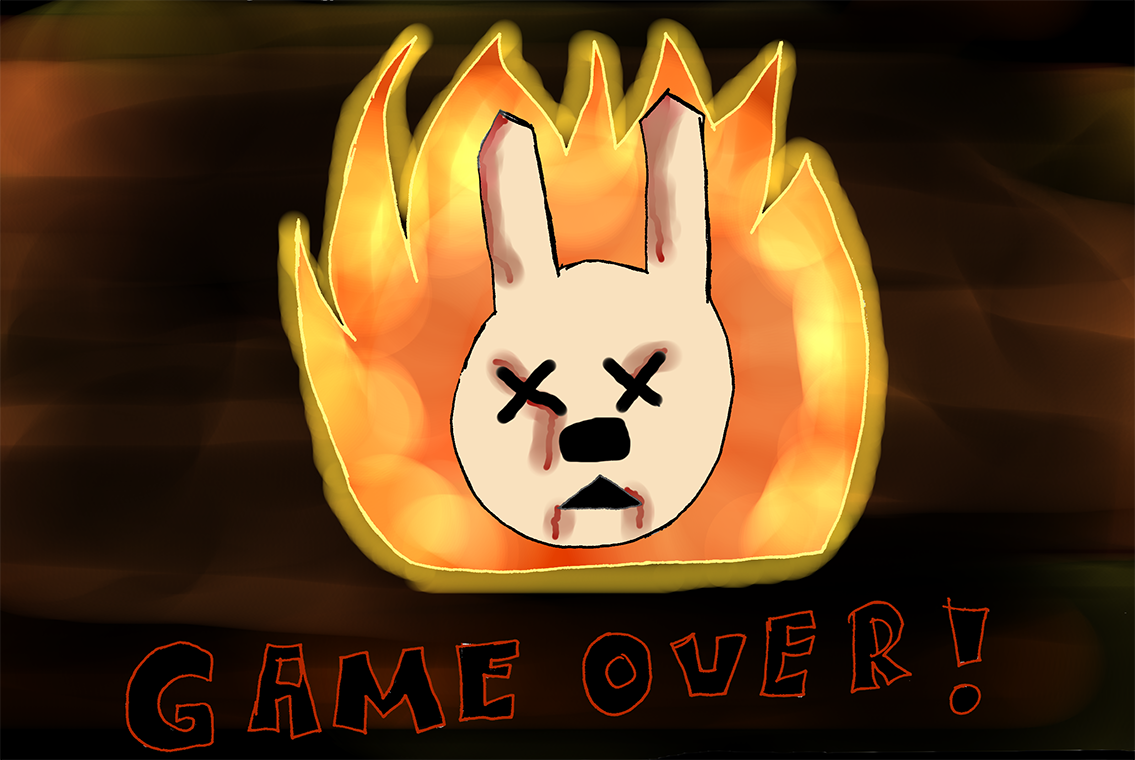
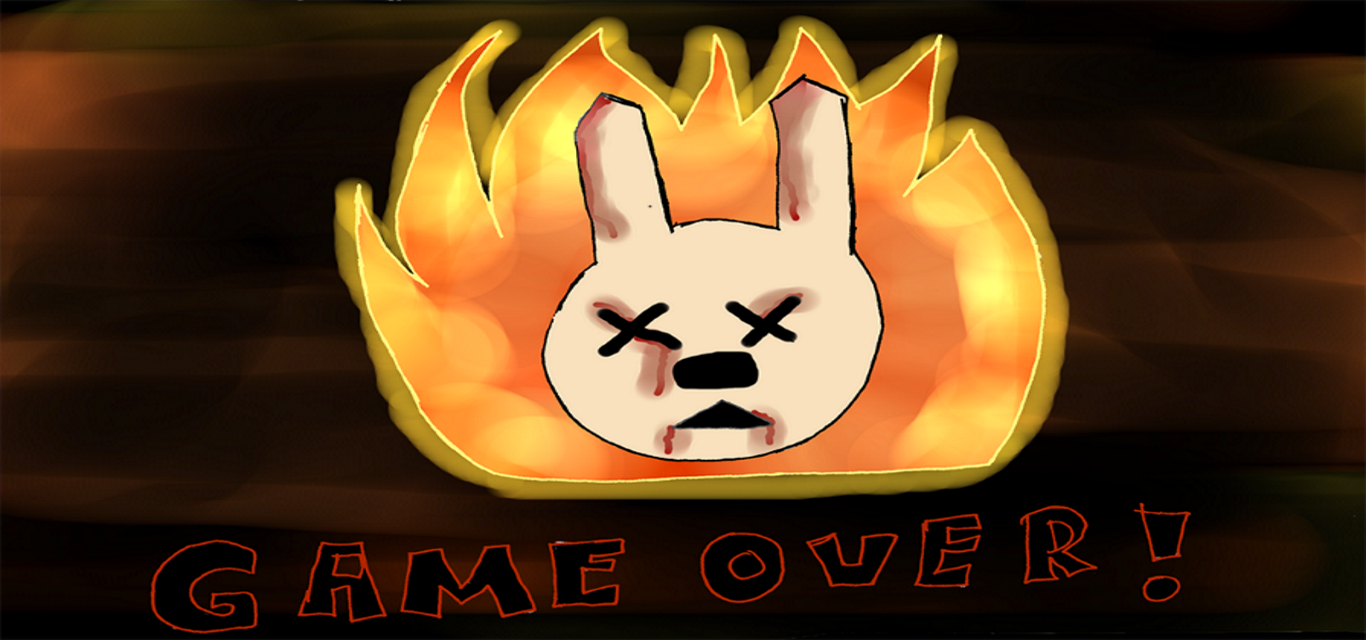
why kvaltitet

diff --git a/Js/config1.js b/Js/config1.js
@@ -1,5 +1,12 @@
 
 function enterLvl1() {
+
+    var backgroungimg = new Image();
+    backgroungimg.src = "./img/bakgrunn1.png";
+    backgroungimg.style.width = canvasEl.width;
+    backgroungimg.style.height = canvasEl.height;
+    
+    console.log(canvasEl.width, canvasEl.height);
     //Setting the inventory of the player to 0
     var playerGameInventoryDiamondCount = 0;
     var playerGameInventoryCarrotCount = 0;
@@ -42,7 +49,7 @@ function enterLvl1() {
     var playerHp = 3;
     var playerDamage = 5;
 
-    //
+    //<
 
     //Making the player
     var player = new entity("img/Small1.png", playerXPosition, playerYPosition, playerWidth, playerHeight, playerYspd, playerGravity, playerWeight, playerHp, playerDamage, playerName)
@@ -116,10 +123,12 @@ function enterLvl1() {
 
     //And the enemies, with a more complex system
     var EnemySet = [
-        { antallEnemies: 0, xPos: 50, yPos: 30, yspd: 0.5, xspd: 0.5, width: 10, height: 12, gravity: 5, weight: 0.1, currentHp: 5, damage: 0, range: 100 },
-        { antallEnemies: 0, xPos: 200, yPos: 20, yspd: 0.5, xspd: 0.5, width: 10, height: 12, gravity: 5, weight: 0.1, currentHp: 5, damage: 0, range: 200 },
-        { antallEnemies: 2, xPos: 490, yPos: 15, yspd: 0.5, xspd: 0.5, width: 10, height: 12, gravity: 5, weight: 0.1, currentHp: 5, damage: 0, range: 10 },
+        { antallEnemies: 2, xPos: 300, yPos: 30, yspd: 0.5, xspd: 0.5, width: 10, height: 12, gravity: 5, weight: 0.1, currentHp: 5, damage: 0, range: 100, name: "zombie" },
+        { antallEnemies: 0, xPos: 200, yPos: 20, yspd: 0.5, xspd: 0.5, width: 10, height: 12, gravity: 5, weight: 0.1, currentHp: 5, damage: 0, range: 200, name: "normal" },
+        { antallEnemies: 2, xPos: 490, yPos: 15, yspd: 0.5, xspd: 0.5, width: 10, height: 12, gravity: 5, weight: 0.1, currentHp: 5, damage: 0, range: 10, name: "normal" },
     ]
+
+    var differanse = new Array();
 
     //Enemy arrays
     var enemies = new Array();
@@ -133,6 +142,7 @@ function enterLvl1() {
         enemies[i] = new Array();
         enemyStartXValue[i] = new Array();
         startSpeed[i] = new Array();
+        differanse[i] = new Array();
 
         for (var j = 0; j < EnemySet[i].antallEnemies; j++) {
             startSpeed[i][j] = false;
@@ -152,6 +162,7 @@ function enterLvl1() {
 
             //Lastly we give the enemies their start value 
             enemies[i][j].startXposition = enemyStartXValue[i][j];
+
 
         }
 
@@ -191,6 +202,8 @@ function enterLvl1() {
 
     mainLoop();
     function mainLoop() {
+
+
 
         var gravity = 0.09;
         // Stats update
@@ -383,30 +396,52 @@ function enterLvl1() {
         }
 
 
-
+        var check = true;
         //Keepin track of the enemies
         for (var i = 0; i < enemies.length; i++) {
 
             for (j = 0; j < enemies[i].length; j++) {
+                console.log(differanse[0][0]);
+                differanse[i][j] = player.xPosition - enemies[i][j].xPosition;
 
-                if (startSpeed[i][j] == false) {
-                    enemies[i][j].xPosition += -player.xSpd + EnemySet[i].xspd;
-                    enemies[i][j].yPosition += EnemySet[i].yspd;
-                    enemies[i][j].startXposition += -EnemySet[i].xspd;
+                if (check || enemies[i][j].name === "normal") {
+
+                    if (startSpeed[i][j] == false) {
+                        enemies[i][j].xPosition += -player.xSpd + EnemySet[i].xspd;
+                        enemies[i][j].yPosition += EnemySet[i].yspd;
+                        enemies[i][j].startXposition += -EnemySet[i].xspd;
+                    }
+
+                    if (startSpeed[i][j] == true) {
+                        enemies[i][j].xPosition += -player.xSpd - EnemySet[i].xspd;
+                        enemies[i][j].yPosition += EnemySet[i].yspd;
+                        enemies[i][j].startXposition += EnemySet[i].xspd;
+                    }
+
+                    if (enemies[i][j].startXposition === enemies[i][j].scopeRight) {
+                        startSpeed[i][j] = false;
+                    } else if (enemies[i][j].startXposition === enemies[i][j].scopeLeft) {
+                        startSpeed[i][j] = true;
+                    }
+
+
+
+                }
+                else {
+                    enemies[i][j].xPosition += EnemySet.xSpd;
                 }
 
-                if (startSpeed[i][j] == true) {
-                    enemies[i][j].xPosition += -player.xSpd - EnemySet[i].xspd;
-                    enemies[i][j].yPosition += EnemySet[i].yspd;
-                    enemies[i][j].startXposition += EnemySet[i].xspd;
+                if (enemies[i][j].name = "zombie") {
+                    if (Math.abs(differanse) < 00) {
+                        check = false;
+                        if (differanse > 0) {
+                            EnemySet[i].xSpd = 0.8;
+                        }
+                    }
+                    else if (differanse < 0) {
+                        EnemySet[i].xSpd = -0.8;
+                    }
                 }
-
-                if (enemies[i][j].startXposition === enemies[i][j].scopeRight) {
-                    startSpeed[i][j] = false;
-                } else if (enemies[i][j].startXposition === enemies[i][j].scopeLeft) {
-                    startSpeed[i][j] = true;
-                }
-
 
 
                 for (var k = 0; k < block.length; k++) {
@@ -445,6 +480,28 @@ function enterLvl1() {
 
                 }
 
+                for (var d = 0; d < bulletList.length; d++) {
+                    if (enemies[i][j].collitionObject(bulletList[d])) {
+                        var remmovebullet = bulletList.indexOf(bulletList[d]);
+                        if (remmovebullet > -1) {
+                            bulletList.splice(remmovebullet, 1);
+
+                        }
+
+                        var removeenemy = enemies[i].indexOf(enemies[i][j]);
+                        if (removeenemy > -1) {
+                            enemies[i].splice(removeenemy, 1);
+
+                        }
+
+
+
+
+
+                        console.log("du har tatt vekk et liv, hvorfor?")
+                    }
+                }
+
             }
         }
 
@@ -454,6 +511,9 @@ function enterLvl1() {
 
         //Clearing the screen
         ctx.clearRect(0, 0, canvasEl.width, canvasEl.height);
+
+        //backgroundimage
+        ctx.drawImage(backgroungimg, 0, 0, backgroungimg.style.width, backgroungimg.style.height);
 
         //rendering the bullets
         for (var i = 0; i < bulletList.length; i++) {

diff --git a/Js/gameClasses.js b/Js/gameClasses.js
@@ -40,10 +40,50 @@ class entity {
             }
             return true;
         }
+/*
+        this.kollisjon2 = function (obj) {
+            //lager to vektorer , plusser ob1.width og height, og med ob2.width og heigt får å måe vektoren fra sentrum
+
+            var vx = ((this.xPosition + (this.width / 2) - (obj.xPosition + (obj.width / 2))));
+            var vy = ((this.yPosition + (this.height / 2) - (obj.yPosition + (obj.height / 2))));
+            //halv bredde og høyde vil bli midtpunkten i hver objekt
+            var halfwidth = ((this.width + obj.width) / 2);
+            var halfheight = (this.height / 2) + (obj.height / 2);
+            var kollisjonpo = null;
+            var ox = halfwidth - Math.abs(vx);
+            var oy = halfheight - Math.abs(vy);
+
+
+            //hvis lengden av vektorene(altså lengden mellom objektenes sentrum) er mindre enn summen av halwidth og halfheight i begge objektene så kolliderer de
+            if (Math.abs(vx) < halfwidth && Math.abs(vy) < halfheight) {
+                if (ox >= oy) {
+                    if (vy > 0) {
+                        kollisjonpo = "topp";
+                        obj.yPosition += oy;
+                    } else {
+                        kollisjonpo = "bunn";
+                        obj.yPosition -= oy;
+                    }
+                    if (vx > 0) {
+                        kollisjonpo = "venstre";
+                        obj.yPosition += ox;
+                    } else {
+                        kollisjonpo = "hoyre";
+                        obj.yPosition -= ox;
+
+                    }
+
+
+                }
+                return kollisjonpo;
+
+
+            }
+        }
 
 
 
-
+*/
         this.entityLoss = function () {
             //if the player dies
             //Collectables are not being saved;
@@ -97,7 +137,7 @@ class blocks {
 //BulletsClass
 
 class bullets {
-    constructor( xPosition, yPosition, xSpd, damage, direction) {
+    constructor(xPosition, yPosition, xSpd, damage, direction) {
         this.xPosition = xPosition;
         this.yPosition = yPosition;
         this.xSpd = xSpd;

diff --git a/README.md b/README.md
@@ -139,3 +139,97 @@ Det gjenstår også å gi damage når kulene treffer en enemy, til nå vet den b
 La til noen bilder så spillet vårt ser mer polished ut
 
 //
+
+
+//
+
+// 02.03.2018 (Pt 1)  fikse skytefunksjon i spillet så forsvinner ikke skuddet når vi har avfyrt den og enimiesene forsvinner ikke når de blir truffet. har lagt til en to for-løkker som skal gå gjennom enemies array og sjekke om enimies har kollidert med skuddet gjennom en if-test. vis den har skal skudd-objektet og enemy-objektet slettes.
+
+**bug** når du avfyrer to skudd så kræsjer spillet. i tilegg registerers det ikke kollisjon mellom skudd og enemien. jeg tror årsaken til dette er fordi den originalet kollisjonssystemet sjekker bare kollisjon mellom to objekter fra entity-classen. med vektor kollisjon systemet skal det løse dette.
+
+endret navnet til egenskapene i enemyset-objektet. endret dem fra "x.pos" til "x.posistion" og det samme med y.
+
+----update----
+
+jeg fjernet de to dimensjonale for-løkkene som skulle sjekke kollisjon mellom bullet og entity. jeg fjernet også et par endringer. nå er config1, altså level 1, tilbake til til orginal versjon som fikset problemet to skudd kræsj buggen. jeg har nå lagt til en for-løkke inni løkken "keeping track of the enemies", som skal sjekke kollisjon mellom enemies og skuddet. men jeg har fått en bug. 
+
+**bug** sirkelene vi skal trykke på når vi har valgt et nivå blir forsatt på skjermen. jeg får syntax feil" Uncaught TypeError: Cannot read property 'width' of undefined", så det er en problem i classene. 
+ //
+
+ // 03.03.2018 Anjayan (Pt 2) 
+
+ 
+
+ tenker løsningen til buggen er at jeg fjerner bullet-classen, og gjør at bullets skal nå bruke entity classen. dette tenker jeg vil løse problemet med at kollisjon metoden for syntax feilen, fordi den sier det er undefined. en annen grunn er at bullets classen og entity classen er ganske lik ,så det kan like godt erstattet. 
+
+en felles regel, husk at javascript er case-sensitiv -_-
+
+ **bug**
+ jo mer jeg jobber med koden jo mer syntax feil kommer opp. disse feilene virkes urelevante
+fordi de har noe ikke sammenheng med  endringene jeg har kodet. kanskje årsaken er en krølleparantes -_- . 
+
+syntax feilen:
+----------{
+config1.js:7 Uncaught ReferenceError: coinCount is not defined
+    at mainLoop (file:///C:/Users/anjaya1005/Desktop/Game-master%20(1)%20(1)(1)/Game-master/Js/config1.js:7:5)
+    at enterLvl1 (file:///C:/Users/anjaya1005/Desktop/Game-master%20(1)%20(1)(1)/Game-master/Js/config1.js:536:5)
+    at HTMLDivElement.loadWorld (file:///C:/Users/anjaya1005/Desktop/Game-master%20(1)%20(1)(1)/Game-master/Js/WorldSelection.js:94:9)
+mainLoop @ config1.js:7
+enterLvl1 @ config1.js:536
+loadWorld @ WorldSelection.js:94
+WorldSelection.js:89 world1
+WorldSelection.js:91 Uncaught TypeError: Cannot read property 'parentNode' of null
+    at HTMLDivElement.loadWorld (file:///C:/Users/anjaya1005/Desktop/Game-master%20(1)%20(1)(1)/Game-master/Js/WorldSelection.js:91:13)
+loadWorld @ WorldSelection.js:91
+WorldSelection.js:89 world1
+WorldSelection.js:91 Uncaught TypeError: Cannot read property 'parentNode' of null
+    at HTMLDivElement.loadWorld (file:///C:/Users/anjaya1005/Desktop/Game-master%20(1)%20(1)(1)/Game-master/Js/WorldSelection.js:91:13)
+loadWorld @ WorldSelection.js:91
+WorldSelection.js:89 
+------------}
+  
+
+//04.04.2018 anjayan (PT 3)
+ 
+ JEG GIR OPP. jeg kommer til å jobbe rundt den ene buggen hvor syntaxen  er " Uncaught TypeError: Cannot read property 'width' of undefined". det samme med buggene over ^^^^^. 
+
+ planen for i dag er å legge til to typer zombie aktige enemies som skal følge etter spilleren. den ene kan bare følge etter deg, mens den andre hoppe over hinder. jeg skal også legge til registrering av kollisjon når spiller treffer enemy på hodet. da vil den forsvinne.
+ 
+
+ ///
+
+
+
+
+ //04.04.2018 PT 4 
+
+kollisjon mellom bullet og enemy:
+ jeg fjernet den nye kollissjon systemet og brukte den gamle. så når de kolliderer så blir det true, og når det blir true så vil den bruke splice også fjerne en bullet fra arrayen. 
+ løsningen var at jeg måtte lage en ny for-løkke som skal gå gjennom bullet-list arrayen. så den vil gå gjennom alle bullettene og sjekke om de har kollidert med enemyen. syntax problem løst. 
+
+ samtidig så blir enemy fjernet fra arrayennår den kolliderer med bullet. samme metode for å fjerne, brukte indexof og splice. 
+
+
+
+
+
+//
+
+//check list:
+viktig
+-lage baner/nivåer.-anjayan
+-få sprite til å funke -hannah
+-legg til pistolen.- anjayan
+-fikse kvaliteten til bildene.-anjayan
+-scroller backgrunnen ( x-retning)-begge 
+-legge til flere typer blocker, som på topp, siden, bunnen og i midten. design for blokker man mister liv på og får trampoline blokker.-hanna tar damage block, anjayan tar jump block.
+-bullets skal ikke være unlimited, jo mer bullets jo mer du diamanter du har. 
+-fikse shooting bug, bullets er usynelig?-
+
+mindre viktig:
+-lyd-til sist
+-fikse zombie enemy, altså differanse-anjayan
+-kollisjon på siden av hinder blocker.-anjayan
+-legge til boss-nivå, med boss. -til sist
+-legge til storeline.-hannah
+
